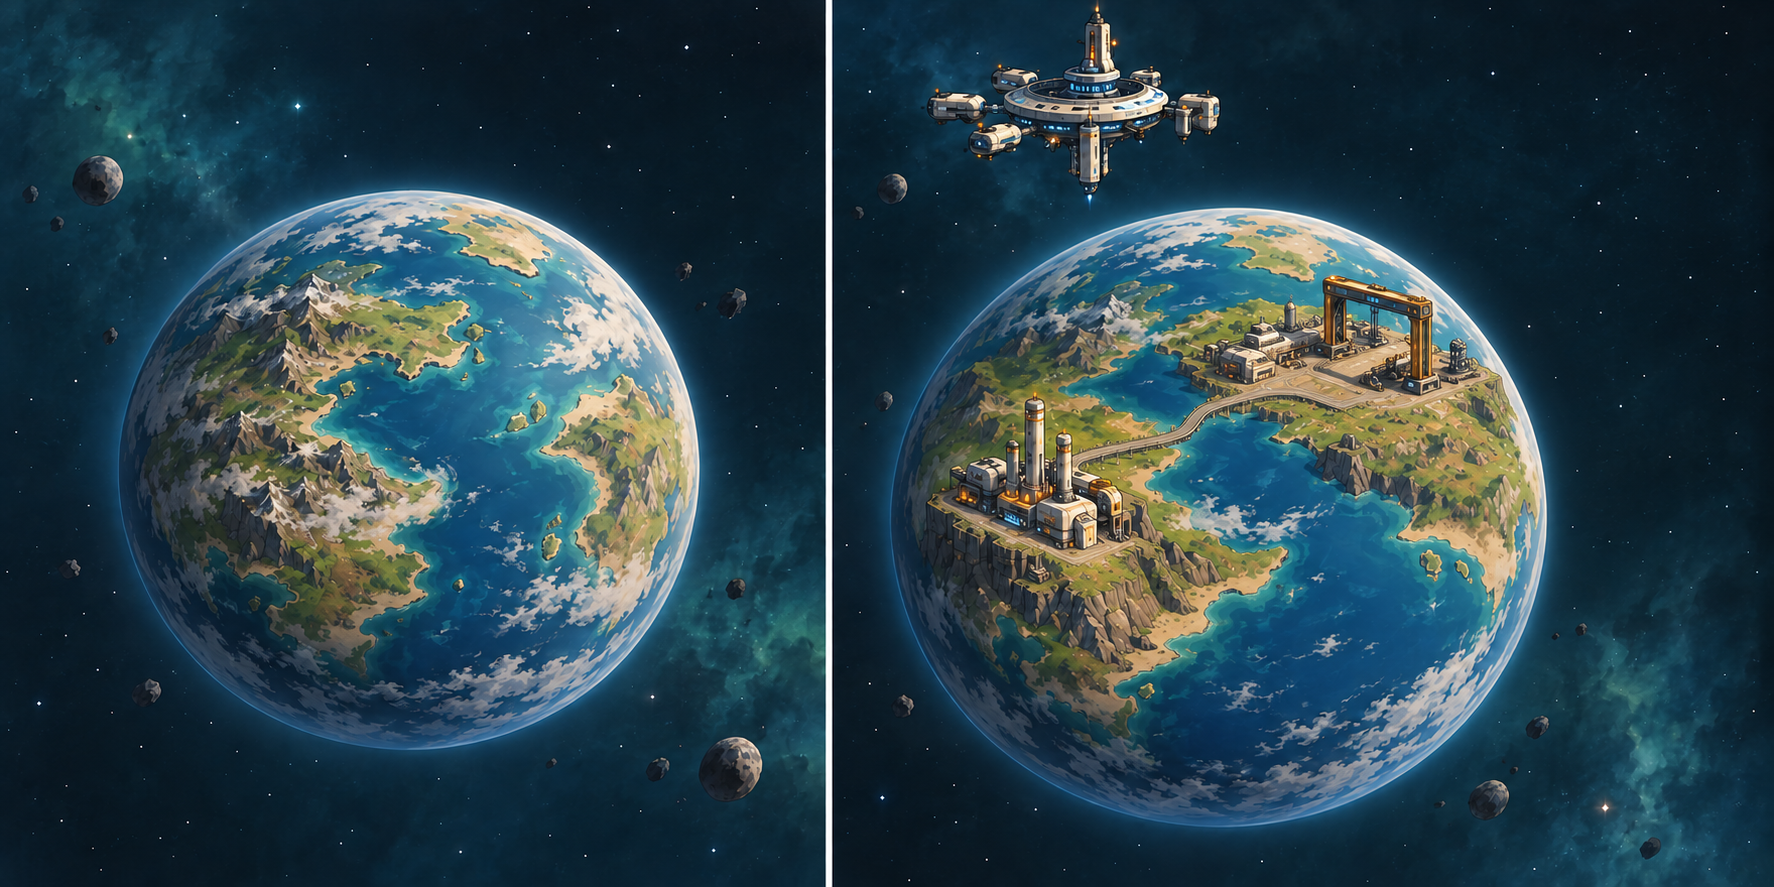
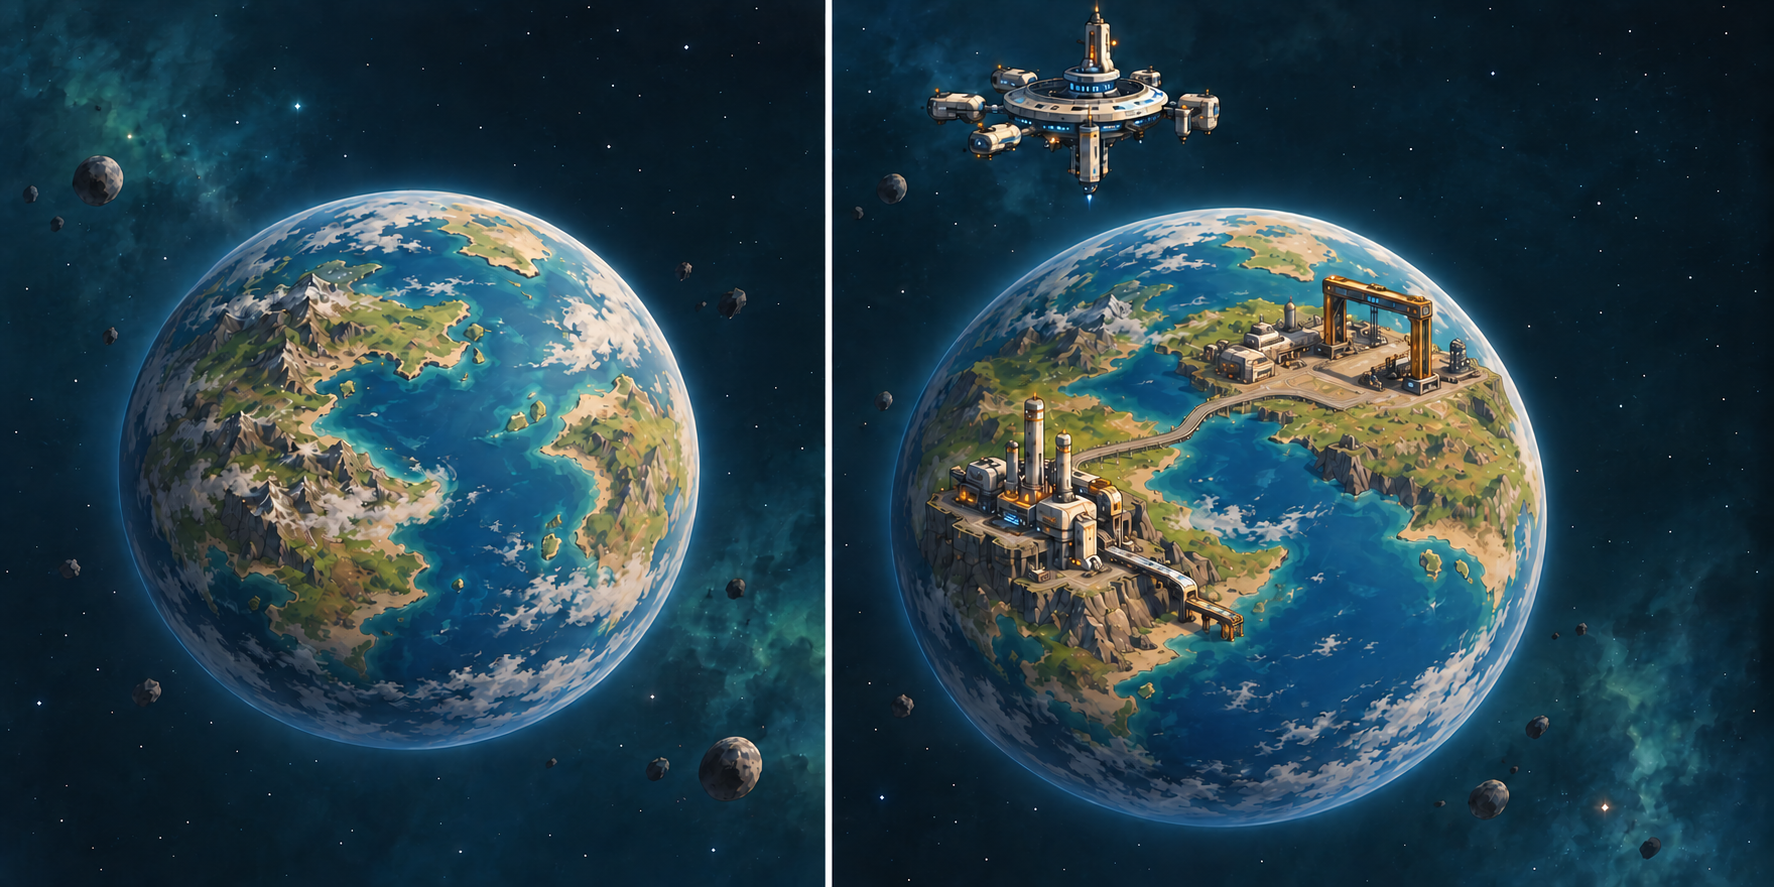
docs: repair staged refinery outlet and pulsar beam lane

diff --git a/space-battleship/docs/game-design/art/modules/planet-six/generation-prompts.md b/space-battleship/docs/game-design/art/modules/planet-six/generation-prompts.md
@@ -70,9 +70,13 @@
 |---|---|---|
[4 lines of base64/hex data omitted]
 
 阶段 0 与 4 取既有完整概念图的左右两态；下次继续其余五类的三个中间阶段。所有图均为静态概念编辑，非实际独立施工或自转的运行证据。
+
[1 lines of base64/hex data omitted]
+
+> Edit the FIRST attached two-panel solid-planet STAGE 03 image. Use the SECOND attached STAGE 02 image only to reference the complete existing refinery at lower-left, especially its SHORT SILVER-AND-ORANGE CONVEYOR OUTLET descending rightward from the refinery's front wall to the lower-right edge of its rocky coastal ledge. In stage 03 the refinery lost that outlet; restore this SAME outlet, in the SAME position, with its visible terminal orange intake/transfer head. Keep the LEFT bare planet panel fully untouched. In the RIGHT panel keep the orbital station, left refinery towers and foundation, upper-right independent orange workshop gantry, short land route and all terrain as they are. Do not remove or convert the workshop, do not add shipyard or unbuilt supports. Only add back the refinery's own short conveyor outlet from stage 02; it belongs to refinery and remains complete whether or not workshop exists. Same scale, painterly game art, no UI/text.
 
 ## 独立建造分步图：气态行星
 
@@ -111,3 +115,15 @@
 > Edit this attached two-panel STAGE 2 stellar construction image. LEFT panel remains bare star. RIGHT panel MUST KEEP the large orbital station above the star EXACTLY as seen, and KEEP the one short shielded magnetic refinery crescent to the star's left EXACTLY as seen. Add exactly one new, small workshop with a recognizable gantry work bay BELOW AND OUTSIDE the refinery crescent, mounted on its OWN compact cool-side truss platform. A short shuttle path may run between built nodes. DO NOT remove, shrink, relocate, or replace the orbital station; do not add shipyard, drydock, future magnetic arcs, large full ring, text or UI. Camera, star scale, space background and painting stay the same.
 
[1 lines of base64/hex data omitted]
+
+## 脉冲星束流走廊修正
+
[1 lines of base64/hex data omitted]
+
+首次编辑提示词：
+
+> Edit the attached TWO-PANEL pulsar concept art. Keep both panels' neutron star, two vertical violet polar beam cones, tilted violet magnetic torus, and all existing station, collector/refinery crescent, workshop and remote right shipyard unchanged. In the RIGHT panel REMOVE the CYAN DOTTED TRANSPORT LINE and tiny ships that cross the LOWER VIOLET POLAR BEAM below the star, including the line from left arc to right shipyard near the lower beam. Replace it with a CLEAR CYAN DOTTED SHUTTLE ROUTE running around the OUTER SAFE EQUATORIAL ARC on the right side of the star, then out to the remote shipyard by an upper-right BEAM-FREE corridor. Keep BOTH polar beam cones visibly empty of ships, paths, structures and docks. The route must visibly avoid the entire lower cone, never cross under it. The two-panel scene, camera, art style and facility design remain otherwise identical. No text or UI.
+
+最终编辑提示词：
+
+> Correct the attached TWO-PANEL pulsar concept: in RIGHT panel, ERASE THE ENTIRE BRIGHT CYAN DOTTED TRANSPORT ROUTE, including all dots running across the TOP polar beam and the curved dots around the left arc and right side. Restore dark space and the subtle violet magnetic torus beneath. Keep only a few separate small solid-bodied shuttle craft parked next to the built LEFT service crescent and separately next to the distant RIGHT shipyard, with no drawn connecting line. Both wide violet polar beam corridors above and below the neutron star must contain NO cyan dots, paths or craft. Keep the star, both violet beams, all four facility silhouettes, collector arc, station, workshop, shipyard, camera and art style unchanged. Do not add any alternative route, do not add text or UI.

diff --git a/space-battleship/docs/game-design/art/modules/planet-six/pulsar.md b/space-battleship/docs/game-design/art/modules/planet-six/pulsar.md
@@ -1,11 +1,13 @@
 # 脉冲星：把极轴束流留空
 
-[总入口](README.md) · [裸态／完整设施态概念图](images/pulsar-concept-a.png)
+[总入口](README.md) · [裸态／完整设施态修正版](images/pulsar-concept-b.png) · [初版留档](images/pulsar-concept-a.png)
 
 **裸态。** 紧凑紫蓝核心、两束相反的窄极轴光束和倾斜磁环先建立可辨方向。设施态沿用同一束流角度；束流不是建筑出现后才添加的装饰。
 
-**设施态与承载。** 两段断开的防护弧只占赤道安全扇区，束流走廊彻底留空。偏置的处理节点与工坊挂在一段弧的背束侧，空间站在另一段弧附近的独立巡行点，船坞更远地占一块无束流的服务扇区。运输器沿安全弧移动，转接点有实际受力和屏蔽几何；不能用完整环把束流和动线混在一起。
+**设施态与承载。** 两段断开的防护弧只占赤道安全扇区，束流走廊彻底留空。偏置的处理节点与工坊挂在一段弧的背束侧，空间站在另一段弧附近的独立巡行点，船坞更远地占一块无束流的服务扇区。小艇在各自安全扇区可见；跨扇区飞行应绕束流，修正版不以二维虚线假装一条穿过极束的安全直路。转接点需有实际受力和屏蔽几何；不能用完整环把束流和动线混在一起。
 
 **作业与动态。** 两束光以同一轴相位扫过，弧上小型闸片按可见相位调整；只有在实际工作／转运时才显示相应动作。裸态由光束建立强方向性，建成后设施利用剩余扇区形成不对称构图。图中磁环亮度和小站数量是概念图偏多处，缩到 808×900 参照区域时应先简化。
 
 束流避让目前只是视觉与空间提案，不附加危险结算、节拍加成、专属产出或新解锁门槛。
+
+初版下极束流处的运输虚线穿过危险走廊；一次改图又把路线移到上极束流，均已排除。修正版撤去跨扇区连续虚线，仅保留两侧小艇与空束流走廊。实际三维绕行路径待运行设计验证，不从这张二维静图推断已解决。

diff --git a/space-battleship/docs/game-design/art/modules/planet-six/README.md b/space-battleship/docs/game-design/art/modules/planet-six/README.md
@@ -11,7 +11,7 @@
 | 恒星 | [裸态／设施态](images/star-concept-a.png) | [恒星](star.md) | 热冷分层、非接触磁场弧与外轨维护 |
 | 红巨星 | [裸态／设施态](images/red-giant-concept-a.png) | [红巨星](red-giant.md) | 稀薄外层与非对称远距新月结构 |
 | 白矮星 | [裸态／设施态](images/white-dwarf-concept-a.png) | [白矮星](white-dwarf.md) | 紧凑高亮核心与分层屏蔽瓣片 |
-| 脉冲星 | [裸态／设施态](images/pulsar-concept-a.png) | [脉冲星](pulsar.md) | 极轴束流避让与赤道安全扇区 |
+| 脉冲星 | [裸态／设施态修正版](images/pulsar-concept-b.png) | [脉冲星](pulsar.md) | 极轴束流避让与赤道安全扇区 |
 
 **状态边界。** 现行[第 3 章星球规则](../../../03-progression.md#5-星球探索与建筑)仍按星球 ID、既有空间站／精炼厂／工坊／船坞、施工门槛和贡献执行；六类的资源、产出、解锁、设施适用性或新建筑功能均未批准。图里的采集环、浮台、磁场弧等首先是视觉承载方案；若将其转为新功能，必须另立玩法提案待定。当前已审的单星球地表与轨道设施、R5 造型及 R14 局部修正只供风格和问题参照，不等于这六套概念获批。
 
